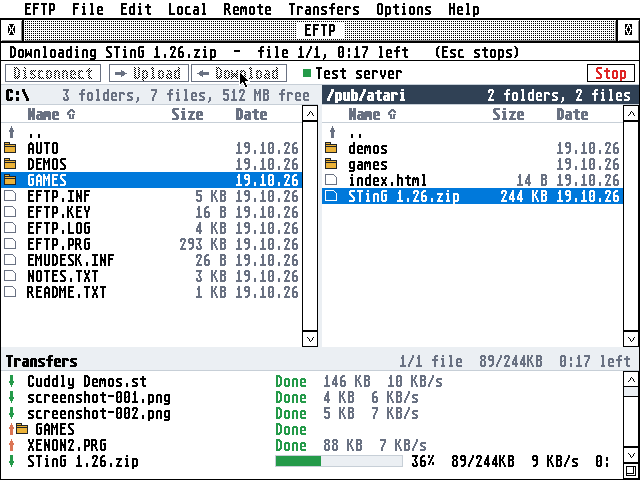
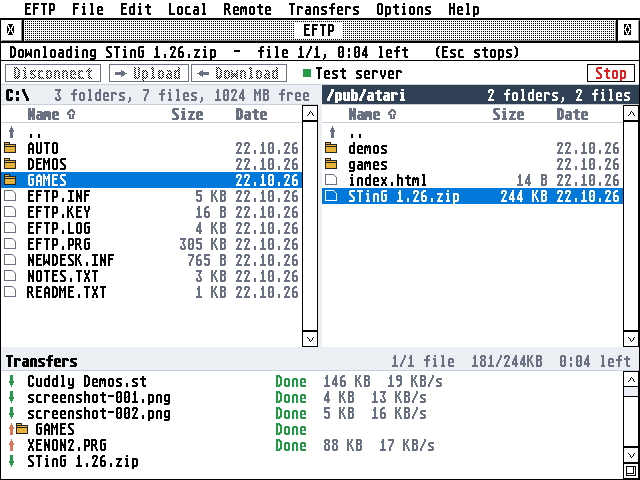
Docs true to main: sizes, the Pi's short way, INF paragraphs, pictures
The family's docs review (Erez, 22 Oct):
- Sizes: the ST edition is about 200 KB (was "about 180"), and
  EFTPST.PRG is about 110 KB smaller than EFTP.PRG (was "105").
- Setting up the Pi, as AERA-Gateway 1.8 says it now. The one line
  takes its latest release and runs `aera-gateway install all`;
  EMail's gateway needs --mail and its servers. Raspberry Pi OS
  bullseye or newer. Before update-pi.sh has run once, the command is
  ~/AERA-Gateway/gateway/aera-gateway. To update:
  ~/AERA-Gateway/update-pi.sh.
- EFTP.INF has an empty line after every setting (6.1), in the README
  and the guide.
- The guide's "Not enough memory" names 1.45's "EFTP can't open its
  screen" alert.
- The pictures, retaken by tests/hatari/screenshots.py on Erez's TOS
  4.04 (Falcon) and 1.04 (1 MB ST), were on EmuTOS:
  - screenshot, sites, settings, context menu and st-mono
  - the help front page's WINDOW.IMG, from the new screenshot
    (helpfront.py thumb), with the progress as it reads now
    ("181/244KB")

Claude-Session: https://claude.ai/code/session_014XE5ftAAPaBvUdzFjsDDv9

diff --git a/README.md b/README.md
@@ -33,7 +33,7 @@ and SFTP servers too.
   sort, colour on 16- and 256-colour screens, a Settings dialog with a sidebar, the server's
   messages in a log pane, iconify, help in EHypView or ST-Guide.
 - **Hebrew** names, shown in the Atari character set; F10 switches to the Hebrew keyboard.
-- **Small and quick:** the ST edition is about 180 KB of plain 68000 code and runs on a 1 MB ST with
+- **Small and quick:** the ST edition is about 200 KB of plain 68000 code and runs on a 1 MB ST with
   STinG; both editions run in TT RAM when there is some.
 
 ![EFTP on a Falcon: the Atari's files on the left, the server's on the right, the transfers below](docs/screenshot.png)
@@ -46,7 +46,7 @@ file by file or all together in the zip:
 | File | What it is |
 |---|---|
 | `EFTP.PRG` | Falcon and TT: with Falcon mode (TLS, DSP); also works through the Pi |
-| `EFTPST.PRG` | ST and STE: the same program without TLS (about 105 KB smaller), through the Pi |
+| `EFTPST.PRG` | ST and STE: the same program without TLS (about 110 KB smaller), through the Pi |
 | `CACERT.PEM`, `ROOTS.DAT` | the root certificates for Falcon mode |
 | `EFTP.HYP` | the user guide, for EHypView or ST-Guide; the Help key opens it |
 | `EFTP.RSC`, `EFTP.ICN`, `EFTPMK.ICN` | the desktop icon (in the zip's `icons/` folder) |
@@ -107,8 +107,10 @@ picks the way from the site's **Protocol** (**File > Sites**) and **Options > Se
   connection's session, which saves the slow part of the handshake and which vsftpd and others
   insist on.
 
-**Setting up the Pi** (Raspberry Pi OS, from a fresh card), with your Atari's address for `ATARI_IP`.
-The short way, one line that sets up every AERA gateway for that Atari, EFTP's among them:
+**Setting up the Pi** (Raspberry Pi OS bullseye or newer, from a fresh card), with your Atari's
+address for `ATARI_IP`. The short way, one line that takes AERA-Gateway's latest release and sets up
+the AERA gateways for that Atari (`aera-gateway install all`), EFTP's among them; EMail's needs
+your mail servers after `--mail` (see [AERA-Gateway](https://github.com/whomper/AERA-Gateway)):
 
 ```sh
 sudo apt install -y git && git clone https://github.com/whomper/AERA-Gateway ~/AERA-Gateway && ~/AERA-Gateway/update-pi.sh --allow ATARI_IP
@@ -124,8 +126,9 @@ cd AERA-Gateway
 sudo aera-gateway install ftp --allow ATARI_IP
 ```
 
-(`update-pi.sh` makes `aera-gateway` a command; before it has run, it is `gateway/aera-gateway`.)
-To update: `cd ~/AERA-Gateway && ./update-pi.sh`. To check: `aera-gateway status`.
+(`update-pi.sh` makes `aera-gateway` a command; before it has run once, it is
+`~/AERA-Gateway/gateway/aera-gateway`.) To update: `~/AERA-Gateway/update-pi.sh`. To check:
+`aera-gateway status`.
 
 In EFTP: **Options > Settings > Secure**, Pi gateway `PI_IP` (the Pi's address), port **2121**.
 Then give the sites their real server names and choose FTPS or SFTP as their Protocol in
@@ -155,7 +158,7 @@ AERA-Gateway's for EFTP's tests; set the Pi up from AERA-Gateway itself, as abov
 - Hidden files on request, folders above files, sort by name, size or date.
 - A protocol log (`EFTP.LOG`) with every line timed to the hundredth of a second and the passwords
   left out.
-- `EFTP.INF` in capitals, each setting with a note above it, as EMail's.
+- `EFTP.INF` in capitals, each setting with a note above it and an empty line after it, as EMail's.
 - The help: `EFTP.HYP` for EHypView or ST-Guide, opened by the Help key.
 
 EFTP shares a lot with [EMail](https://github.com/whomper/EMail),

diff --git a/docs/GUIDE.md b/docs/GUIDE.md
@@ -42,7 +42,7 @@ The files are in the latest release on EFTP's GitHub page
 | Falcon, TT        | `EFTP.PRG`, `CACERT.PEM`, `ROOTS.DAT` | FTPS by itself (Falcon mode), SFTP through the Pi |
 | ST, STE, Mega ST  | `EFTPST.PRG`                 | FTPS and SFTP through the Pi         |
 
-`EFTPST.PRG` is the same program without TLS, about 105 KB smaller: rename it
+`EFTPST.PRG` is the same program without TLS, about 110 KB smaller: rename it
 to `EFTP.PRG` if you like.
 
 EFTP can live in any folder, on any drive: there is no folder it must
@@ -209,9 +209,12 @@ to check out.
 
 ### Setting up the Pi
 
-On a Raspberry Pi with Raspberry Pi OS (from a fresh card), with your
-Atari's address in place of ATARI_IP. The short way, one line that
-sets up every AERA gateway for that Atari, EFTP's among them:
+On a Raspberry Pi with Raspberry Pi OS bullseye or newer (from a
+fresh card), with your Atari's address in place of ATARI_IP. The short
+way, one line that takes AERA-Gateway's latest release and sets up the
+AERA gateways for that Atari (aera-gateway install all), EFTP's among
+them; EMail's needs your mail servers after --mail (AERA-Gateway's
+README):
 
 ```
 sudo apt install -y git && \
@@ -229,9 +232,10 @@ cd AERA-Gateway
 sudo aera-gateway install ftp --allow ATARI_IP
 ```
 
-(update-pi.sh makes aera-gateway a command; before it has run, it is
-gateway/aera-gateway.) To update it later: `cd ~/AERA-Gateway &&
-./update-pi.sh`. To see that it runs: `aera-gateway status`.
+(update-pi.sh makes aera-gateway a command; before it has run once, it
+is ~/AERA-Gateway/gateway/aera-gateway.) To update it later:
+`~/AERA-Gateway/update-pi.sh`. To see that it runs: `aera-gateway
+status`.
 
 Then in EFTP: Options > Settings > Secure, Pi gateway: the Pi's
 address (PI_IP), port 2121. AERA-Gateway's README has the gateway's
@@ -462,7 +466,9 @@ Undo or the Stop button stops it.
   about 40 KB/s (Delay 20), against 14 with 32000 and 25 with 7300.
 - **Not enough memory**: EFTPST.PRG needs about 350 KB free when it
   starts, EFTP.PRG about 500 KB for Falcon mode; on a 1 MB machine use
-  EFTPST.PRG, and leave out accessories you don't need.
+  EFTPST.PRG, and leave out accessories you don't need. **"EFTP can't
+  open its screen"** says the same of the VDI's memory, with how much
+  was free: load fewer accessories, or add memory.
 - **"... needs the Raspberry Pi gateway"** or **"FTPS needs Falcon
   mode or the Raspberry Pi gateway"**: the site is FTPS or SFTP; set up
   the gateway (Settings > Secure), or switch on Falcon mode for FTPS.
@@ -489,7 +495,7 @@ Undo or the Stop button stops it.
 
 The settings and sites are kept in `EFTP.INF`, a text file that explains
 itself: each setting has a note above it saying what it is and what the
-numbers mean. EFTP writes it again whenever settings change, with the
+numbers mean, and an empty line after it. EFTP writes it again whenever settings change, with the
 notes. Passwords are encrypted with `EFTP.KEY`; type one in plain text
 in `PASS=` and EFTP encrypts it the next time it saves. Without
 `EFTP.KEY` the passwords can't be read: type them again in File > Sites.
